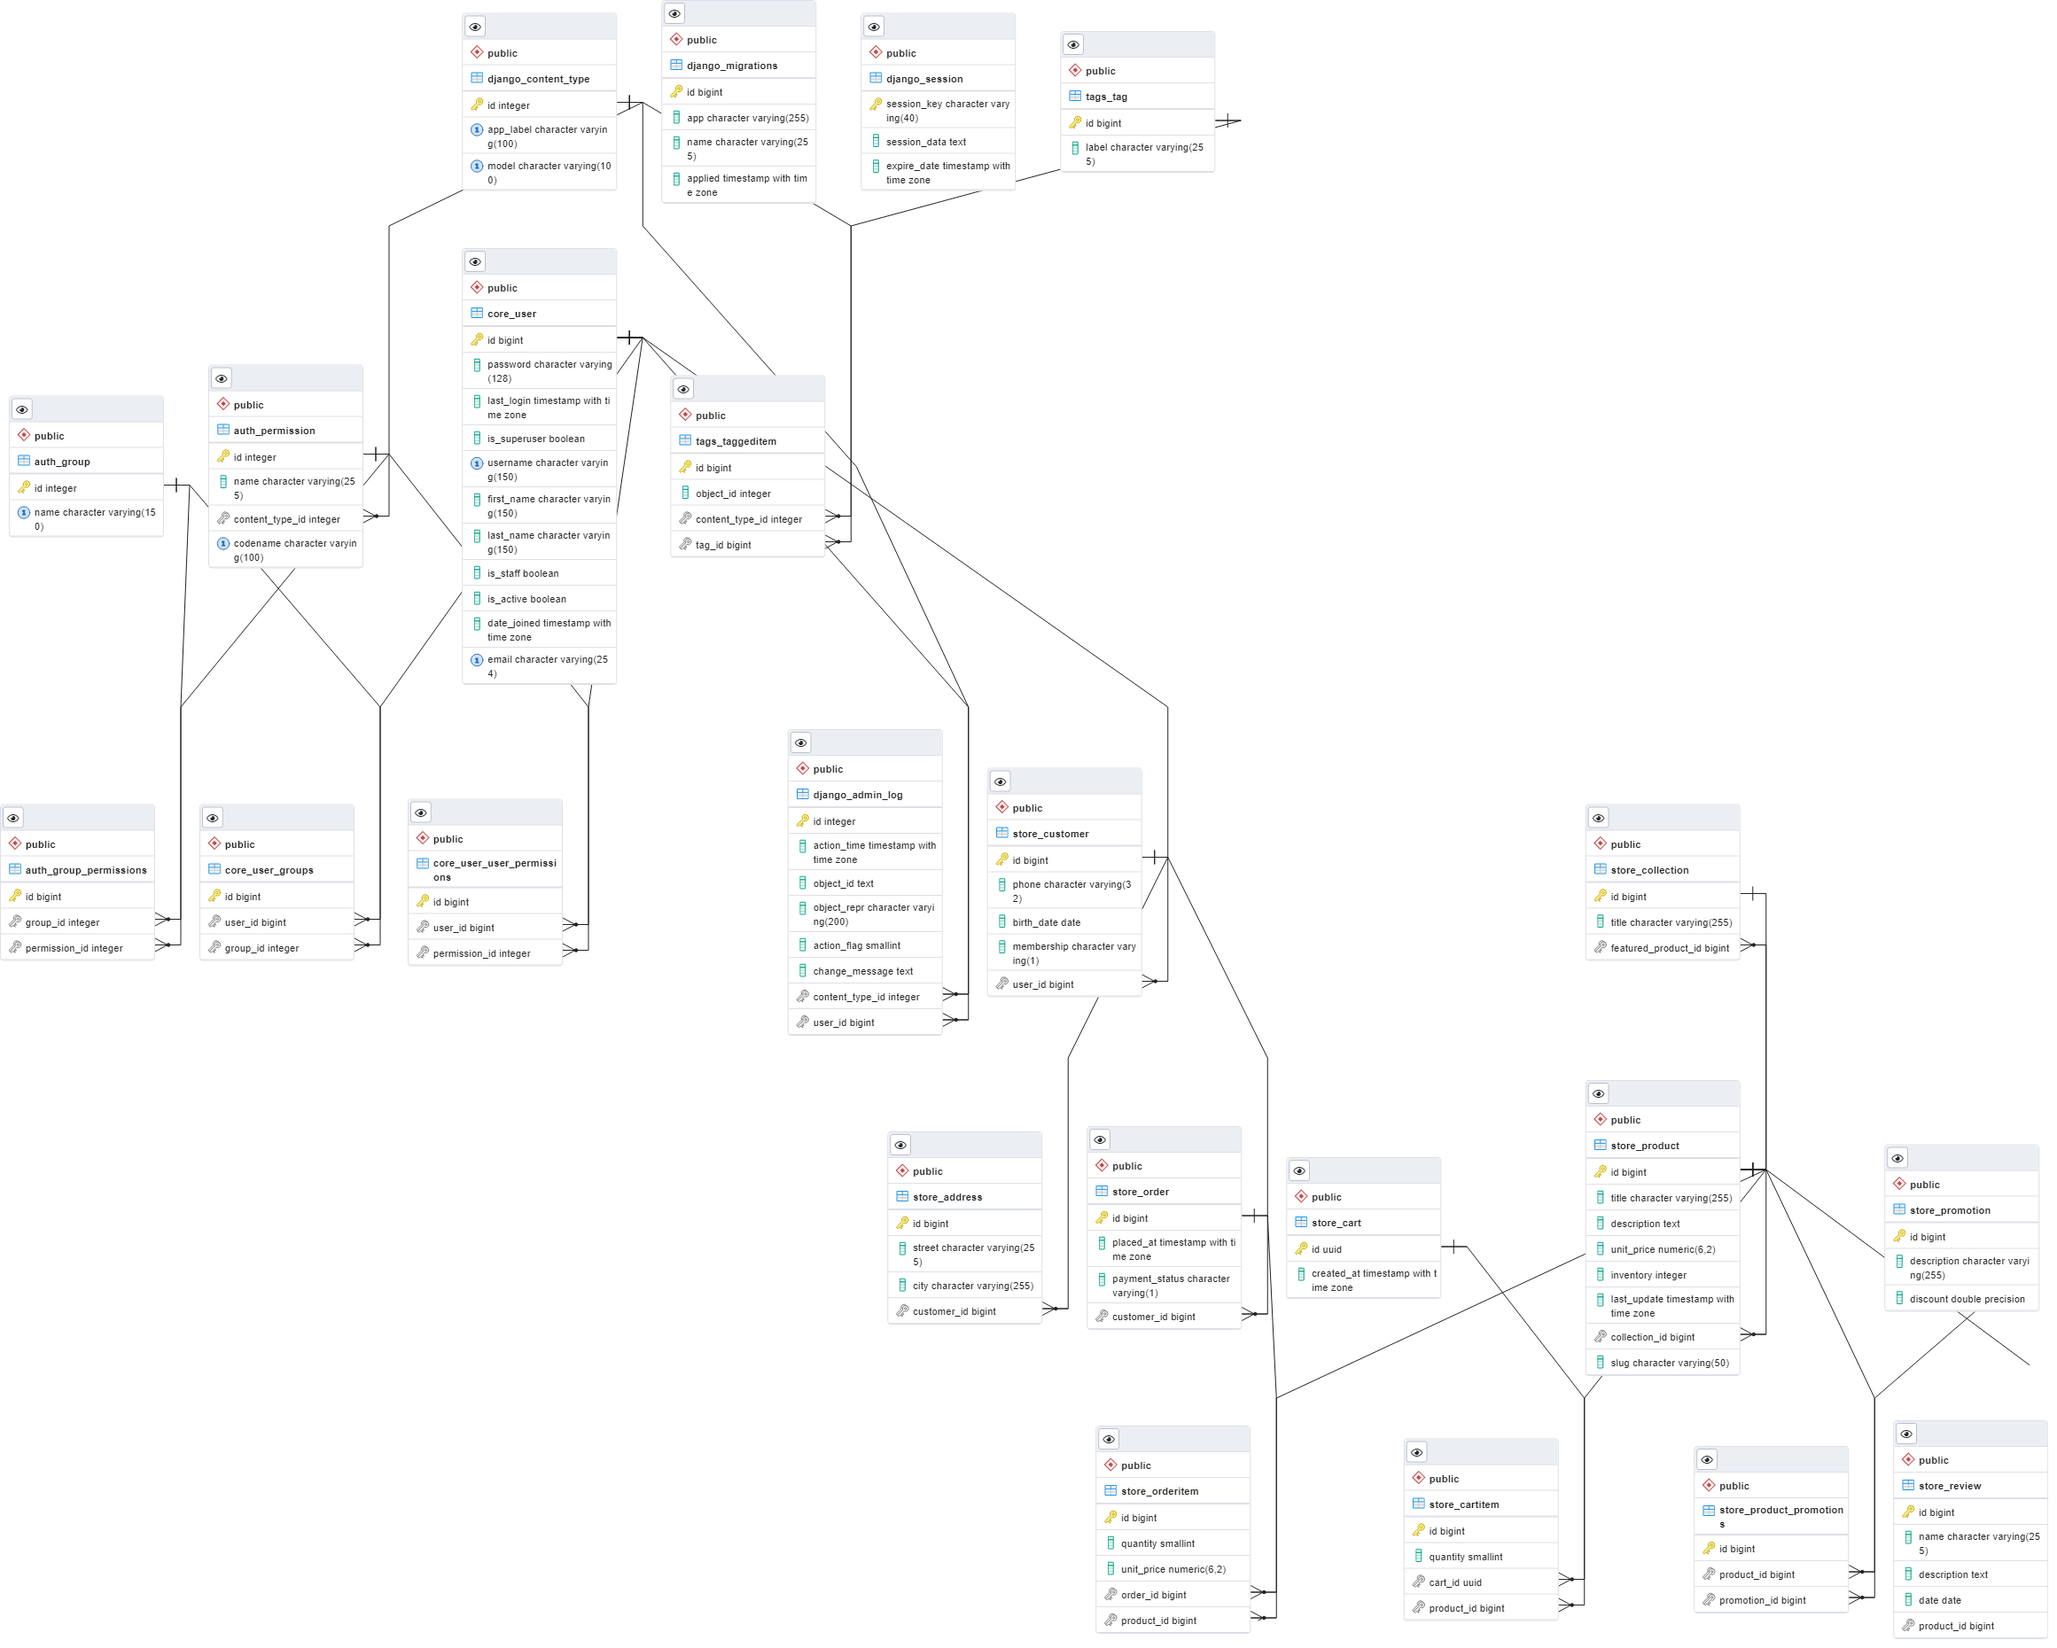
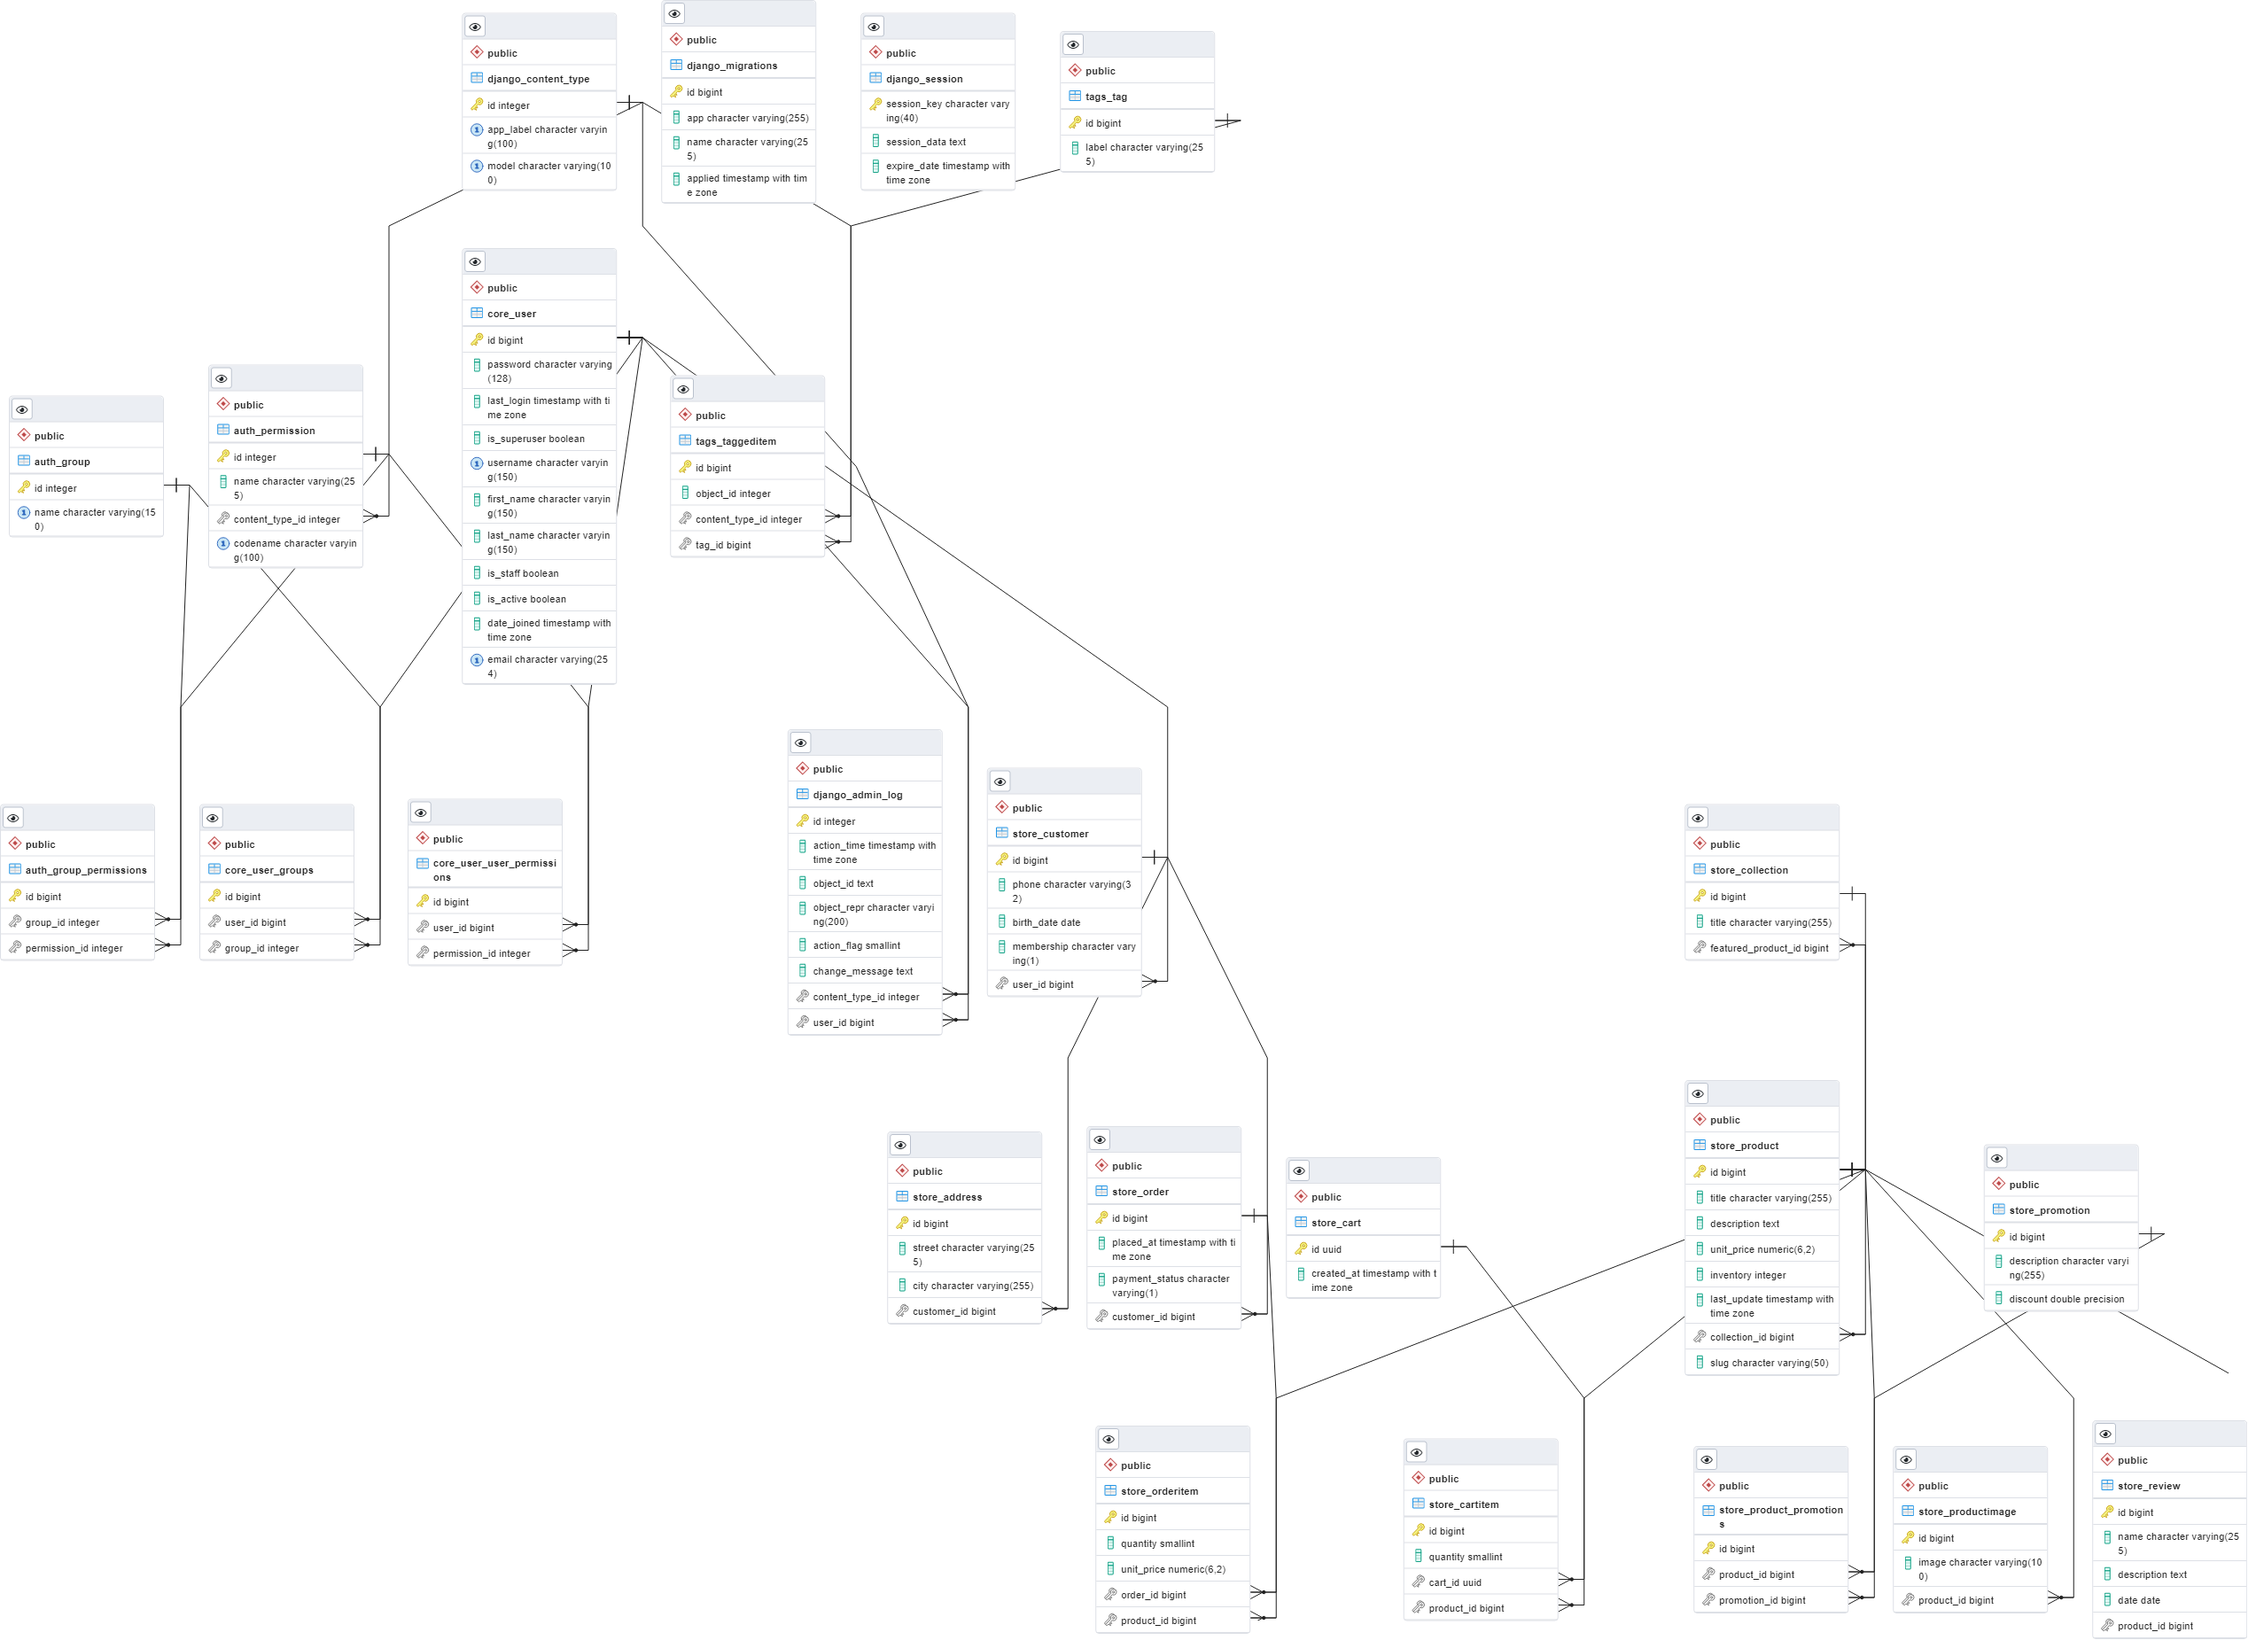
add product image model and associate it with product model

diff --git a/storefront/urls.py b/storefront/urls.py
@@ -13,6 +13,8 @@ Including another URLconf
     1. Import the include() function: from django.urls.py import include, path
     2. Add a URL to urlpatterns:  path('blog/', include('blog.urls.py'))
 """
+from django.conf import settings
+from django.conf.urls.static import static
 from django.contrib import admin
 from django.urls import path, include
 import debug_toolbar
@@ -32,3 +34,7 @@ urlpatterns = [
     path("store/", include("store.urls")),
 
 ]
+
+if settings.DEBUG:
+    # Set media url and root path for development environment
+    urlpatterns += static(settings.MEDIA_URL, document_root=settings.MEDIA_ROOT)

diff --git a/store/models.py b/store/models.py
@@ -52,6 +52,13 @@ class Product(models.Model):
         ordering = ["title"]
 
 
+class ProductImage(models.Model):
+    """ Create Product Image model """
+    product = models.ForeignKey(Product, on_delete=models.CASCADE, related_name="images")
+    # Upload images to media/store/images in media root path
+    image = models.ImageField(upload_to="store/images")
+
+
 class Customer(models.Model):
     """ Create Customer model """
     MEMBERSHIP_BRONZE = "B"

diff --git a/storefront/settings.py b/storefront/settings.py
@@ -139,6 +139,10 @@ USE_TZ = True
 
 STATIC_URL = "static/"
 
+# Set media url and root path by joining base directory of the project with media directory
+MEDIA_URL = "/media/"
+MEDIA_ROOT = os.path.join(BASE_DIR, "media")
+
 # Default primary key field type
 # https://docs.djangoproject.com/en/4.1/ref/settings/#default-auto-field
 
